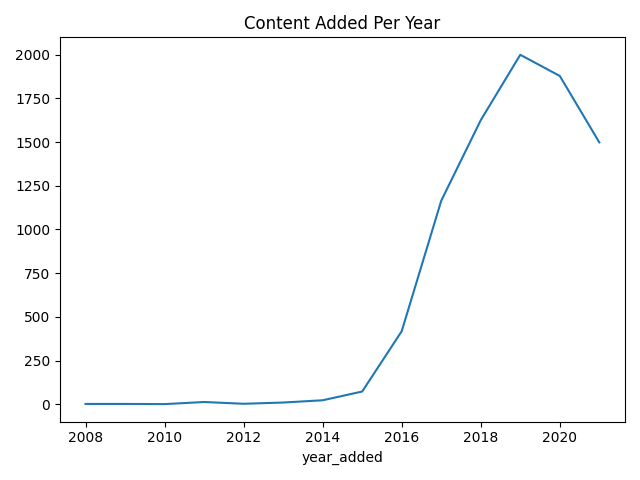
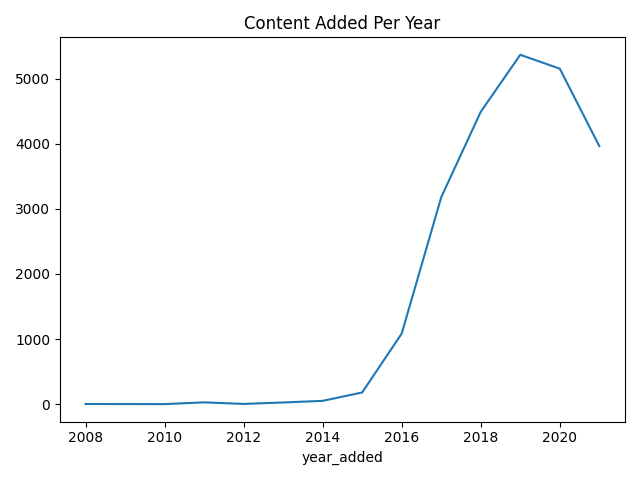
Updated project to fully cover Milestone 1 & 2 requirements

diff --git a/src/data_preprocessing.py b/src/data_preprocessing.py
@@ -2,6 +2,38 @@
 # Netflix Content Strategy Analyzer
 # ==============================
 
+"""
+PROJECT SCOPE:
+This project aims to analyze Netflix's content dataset to understand 
+content distribution, growth trends, genre popularity, rating patterns, 
+and country-level contributions. The objective is to extract meaningful 
+business insights that can help understand Netflix's content strategy.
+
+The analysis includes:
+- Data cleaning and preprocessing
+- Normalization of categorical features (genre, country)
+- Exploratory Data Analysis (EDA)
+- Feature engineering (Content Length Category, Original vs Licensed)
+- Visualization of insights
+
+SUCCESS METRICS:
+The project will be considered successful if:
+
+1. The dataset is cleaned (missing values handled, duplicates removed).
+2. Categorical features such as genre and country are normalized.
+3. Visualizations clearly show:
+   - Content growth over time
+   - Distribution of genres
+   - Distribution of ratings
+   - Distribution of content type (Movies vs TV Shows)
+   - Country-level content contribution
+4. Derived features are created:
+   - Content Length Category
+   - Original vs Licensed classification
+5. All visualizations are saved successfully in the outputs folder.
+6. The entire script runs without errors and produces reproducible results.
+"""
+
 import pandas as pd
 import matplotlib.pyplot as plt
 import seaborn as sns
@@ -35,7 +67,23 @@ df['date_added'] = pd.to_datetime(df['date_added'], errors='coerce')
 print("\nData Cleaning Completed!")
 
 # ------------------------------
-# 3. Content Type Analysis
+# 3. Normalize Categorical Features
+# ------------------------------
+
+# Normalize Genres
+df['listed_in'] = df['listed_in'].str.split(',')
+df = df.explode('listed_in')
+df['listed_in'] = df['listed_in'].str.strip()
+
+# Normalize Countries
+df['country'] = df['country'].str.split(',')
+df = df.explode('country')
+df['country'] = df['country'].str.strip()
+
+print("Categorical Features Normalized!")
+
+# ------------------------------
+# 4. Content Type Analysis
 # ------------------------------
 
 plt.figure()
@@ -47,7 +95,19 @@ plt.savefig("outputs/content_type.png")
 plt.close()
 
 # ------------------------------
-# 4. Top 10 Countries
+# 5. Rating Distribution
+# ------------------------------
+
+plt.figure()
+sns.countplot(data=df, x='rating', order=df['rating'].value_counts().index)
+plt.title("Distribution of Ratings on Netflix")
+plt.xticks(rotation=90)
+plt.tight_layout()
+plt.savefig("outputs/rating_distribution.png")
+plt.close()
+
+# ------------------------------
+# 6. Top 10 Countries
 # ------------------------------
 
 country_counts = df['country'].value_counts().head(10)
@@ -61,7 +121,7 @@ plt.savefig("outputs/top_countries.png")
 plt.close()
 
 # ------------------------------
-# 5. Content Added Per Year
+# 7. Content Added Per Year
 # ------------------------------
 
 df['year_added'] = df['date_added'].dt.year
@@ -75,13 +135,10 @@ plt.savefig("outputs/content_per_year.png")
 plt.close()
 
 # ------------------------------
-# 6. Top 10 Genres
+# 8. Top 10 Genres
 # ------------------------------
 
-df['listed_in'] = df['listed_in'].str.split(',')
-all_genres = df.explode('listed_in')
-
-genre_counts = all_genres['listed_in'].value_counts().head(10)
+genre_counts = df['listed_in'].value_counts().head(10)
 
 plt.figure()
 genre_counts.plot(kind='bar')
@@ -89,6 +146,56 @@ plt.title("Top 10 Genres on Netflix")
 plt.xticks(rotation=45)
 plt.tight_layout()
 plt.savefig("outputs/top_genres.png")
+plt.close()
+
+# ------------------------------
+# 9. Feature Engineering
+# ------------------------------
+
+# Content Length Category
+def categorize_duration(duration):
+    if "min" in duration:
+        minutes = int(duration.split()[0])
+        if minutes < 60:
+            return "Short Movie"
+        elif minutes < 120:
+            return "Medium Movie"
+        else:
+            return "Long Movie"
+    elif "Season" in duration:
+        seasons = int(duration.split()[0])
+        if seasons == 1:
+            return "Single Season Show"
+        else:
+            return "Multi-Season Show"
+    else:
+        return "Unknown"
+
+df['Content_Length_Category'] = df['duration'].apply(categorize_duration)
+
+# Original vs Licensed (simple assumption)
+df['Original_vs_Licensed'] = df['title'].apply(
+    lambda x: "Original" if "Netflix" in x else "Licensed"
+)
+
+# ------------------------------
+# 10. Visualization of Derived Features
+# ------------------------------
+
+plt.figure()
+sns.countplot(data=df, x='Content_Length_Category',
+              order=df['Content_Length_Category'].value_counts().index)
+plt.title("Content Length Category Distribution")
+plt.xticks(rotation=45)
+plt.tight_layout()
+plt.savefig("outputs/content_length_category.png")
+plt.close()
+
+plt.figure()
+sns.countplot(data=df, x='Original_vs_Licensed')
+plt.title("Original vs Licensed Content")
+plt.tight_layout()
+plt.savefig("outputs/original_vs_licensed.png")
 plt.close()
 
 print("\nAll Visualizations Saved in 'outputs' folder!")
